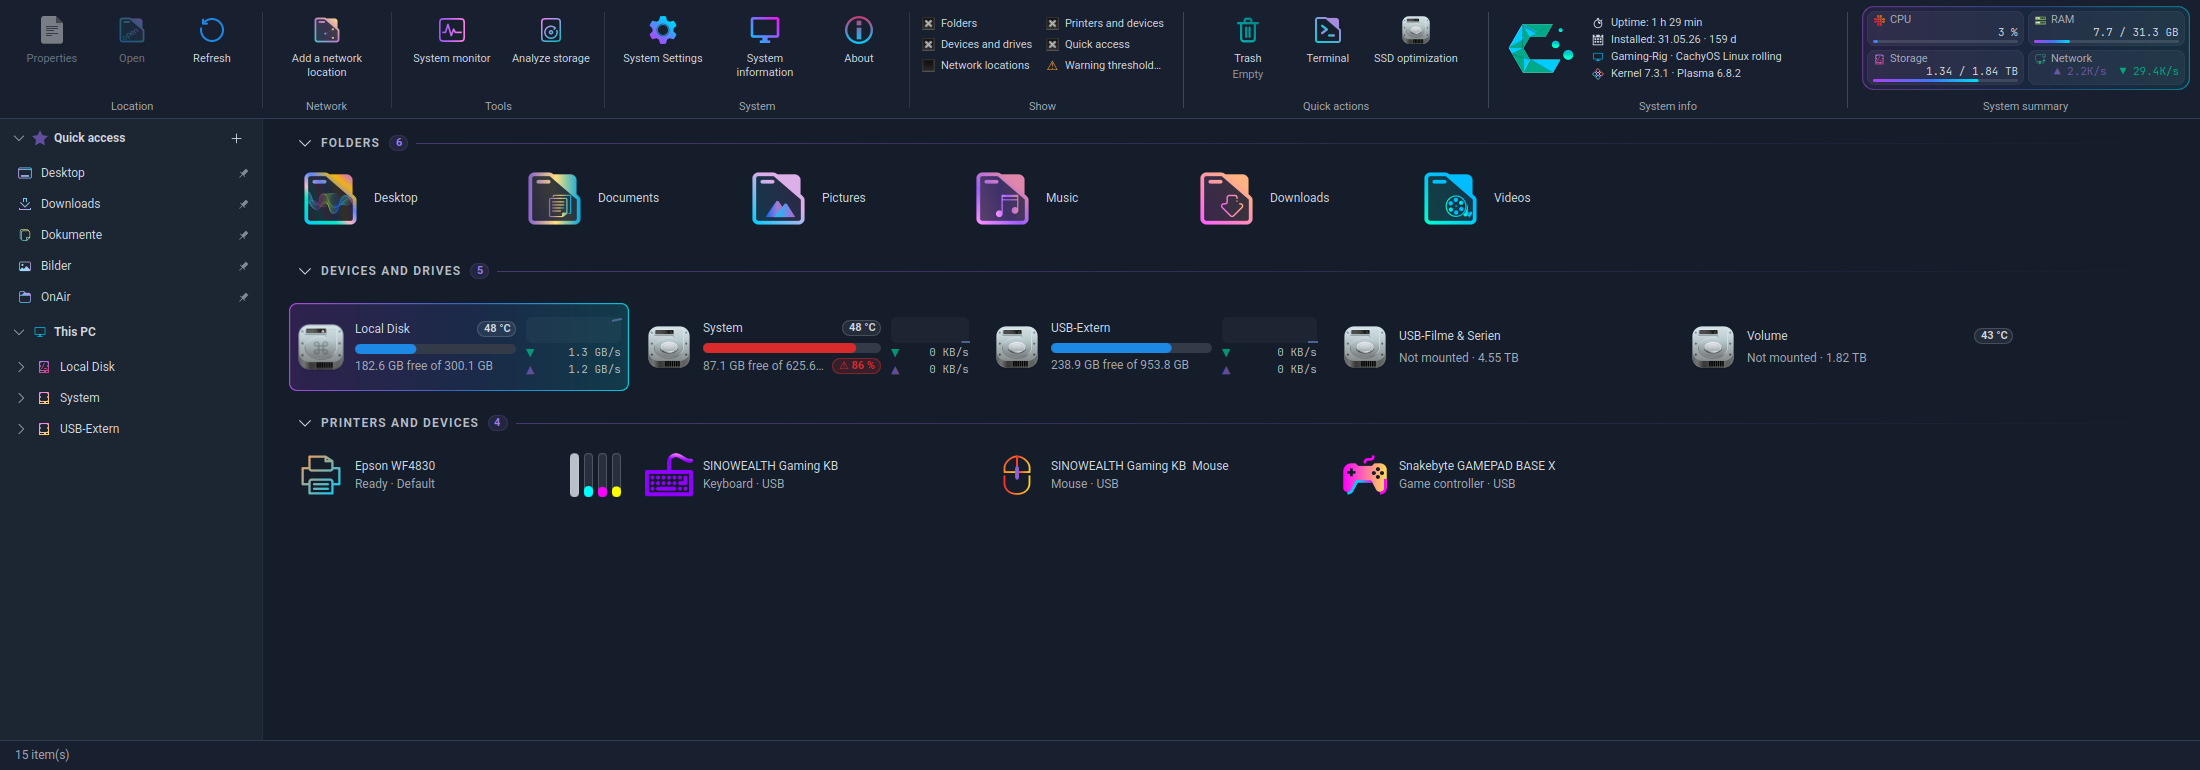
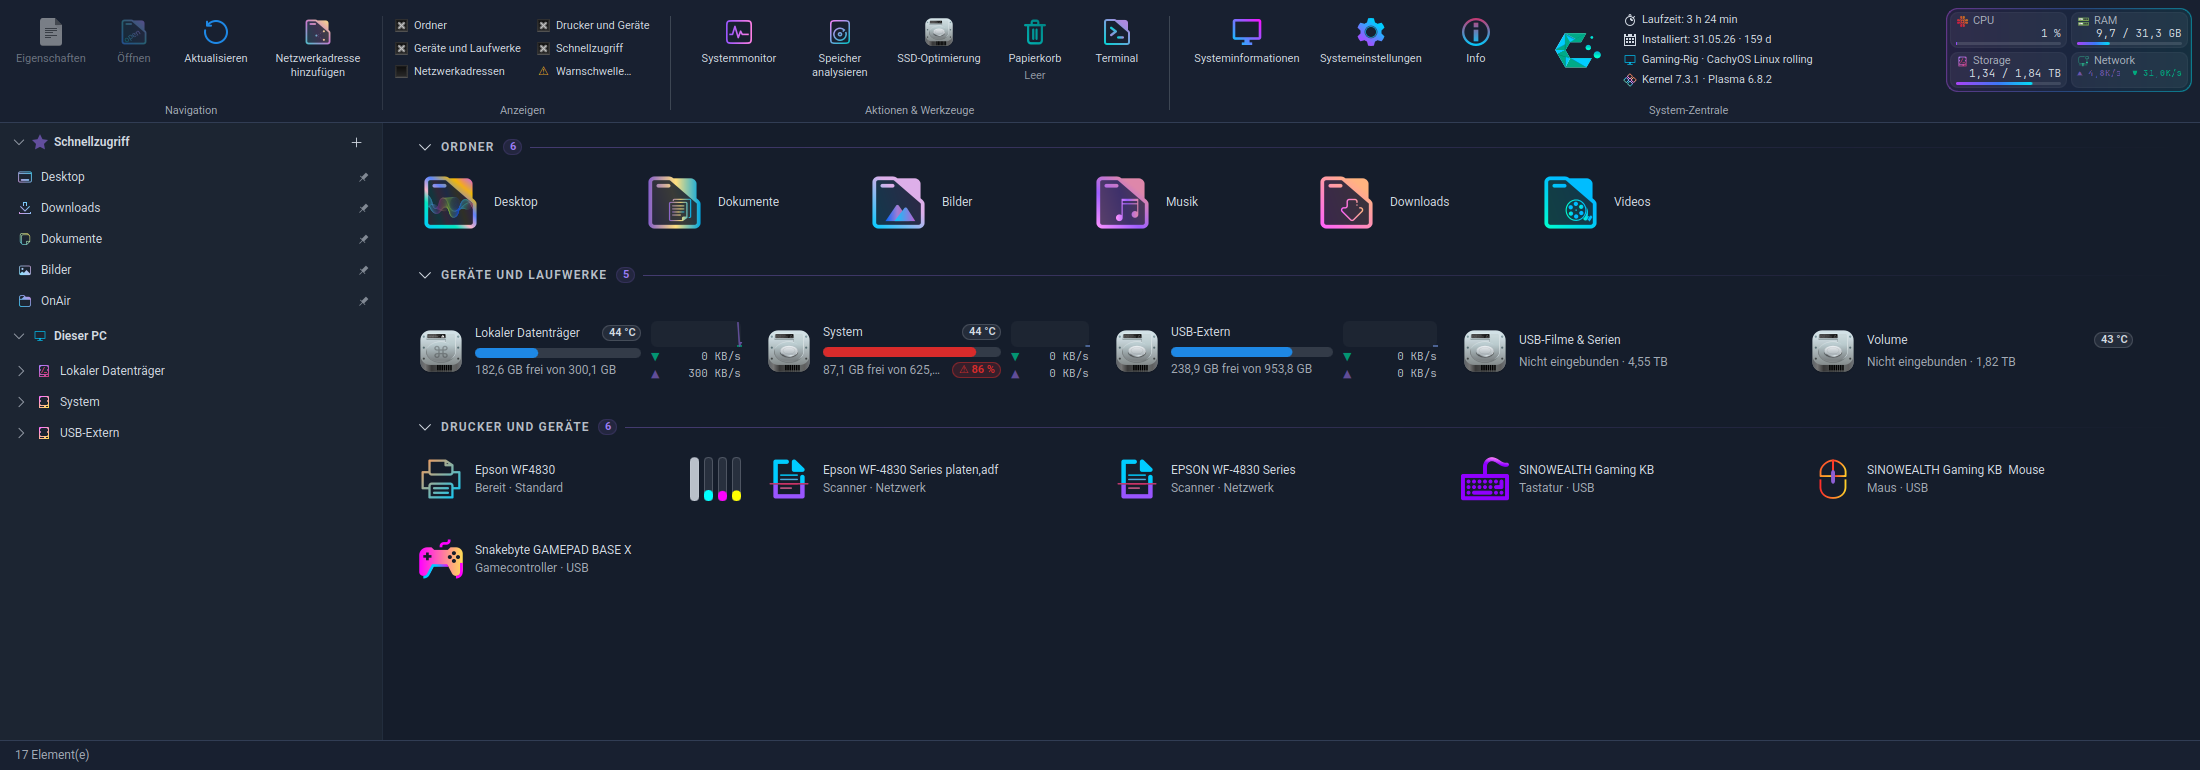
Release 2.0.0-beta.8.3: new ribbon, audit fixes, cleanup, new preview

diff --git a/drivedeck.py b/drivedeck.py
@@ -7776,7 +7776,7 @@ QQC2.ApplicationWindow {
 """
 
 
-APP_VERSION = '2.0.0-beta.8.2'
+APP_VERSION = '2.0.0-beta.8.3'
 APP_AUTEUR = """Original Copyright (C) 2026 naykkalak
 Modified and maintained by Christian (2026), with help from his son Leon"""
 APP_LICENCE = 'GPL-3.0-or-later'

diff --git a/README.md b/README.md
@@ -12,7 +12,7 @@ locations, printers and devices in one clean window, and it follows your Plasma 
 
 <p align="center"><img src="preview.png" alt="DriveDeck main window"></p>
 
-**Version 2.0.0-beta.8.2** – feedback and bug reports are very welcome.
+**Version 2.0.0-beta.8.3** – feedback and bug reports are very welcome.
 
 ---
 

diff --git a/CHANGELOG.md b/CHANGELOG.md
@@ -10,7 +10,7 @@ hidden and everything else works).
 
 ---
 
-## Unreleased
+## 2.0.0-beta.8.3 – 2026-11-06 (new ribbon, audit fixes, cleanup)
 
 ### Changed
 
